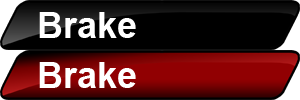
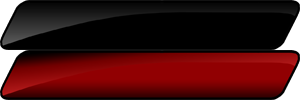
New ETV controls images without text.
git-svn-id: https://svn.ctdp.net/svn/rfdynhud/trunk@385 1c0d6ce8-a1e3-b74c-a49d-f790e2421cd5

Changed region(s): [[0.12, 0.6, 0.48, 0.9], [0.12, 0.12, 0.48, 0.39]]

diff --git a/java/src/net/ctdp/rfdynhud/widgets/widget/WidgetBackground.java b/java/src/net/ctdp/rfdynhud/widgets/widget/WidgetBackground.java
@@ -19,6 +19,8 @@ package net.ctdp.rfdynhud.widgets.widget;
 
 import java.awt.Color;
 
+import org.jagatoo.util.Tools;
+
 import net.ctdp.rfdynhud.editor.__EDPrivilegedAccess;
 import net.ctdp.rfdynhud.gamedata.LiveGameData;
 import net.ctdp.rfdynhud.properties.BackgroundProperty;
@@ -130,6 +132,7 @@ public class WidgetBackground
         
         float deltaScaleX = -1.0f;
         float deltaScaleY = -1.0f;
+        boolean imageChanged = false;
         
         if ( newBGType.isColor() )
         {
@@ -139,6 +142,7 @@ public class WidgetBackground
                 
                 deltaScaleX = (float)width / (float)it.getBaseWidth();
                 deltaScaleY = (float)height / (float)it.getBaseHeight();
+                imageChanged = true;
             }
             
             backgroundTexture = null;
@@ -154,6 +158,7 @@ public class WidgetBackground
                 
                 deltaScaleX = (float)it.getBaseWidth() / (float)width;
                 deltaScaleY = (float)it.getBaseHeight() / (float)height;
+                imageChanged = true;
             }
             else if ( oldBGType.isImage() )
             {
@@ -169,6 +174,7 @@ public class WidgetBackground
                 
                 deltaScaleX = oldBgScaleX / newScaleX;
                 deltaScaleY = oldBgScaleY / newScaleY;
+                imageChanged = !Tools.objectsEqual( oldValue, newValue );
             }
             
             backgroundTexture = null;
@@ -177,7 +183,7 @@ public class WidgetBackground
             mergedBgTexDirty = true;
         }
         
-        widget.onBackgroundChanged( deltaScaleX, deltaScaleY );
+        widget.onBackgroundChanged( imageChanged, deltaScaleX, deltaScaleY );
         widget.forceAndSetDirty( true );
     }
     

diff --git a/java/src/net/ctdp/rfdynhud/widgets/widget/Widget.java b/java/src/net/ctdp/rfdynhud/widgets/widget/Widget.java
@@ -129,10 +129,11 @@ public abstract class Widget implements Cloneable, Documented
     /**
      * This method is invoked when the background has changed.
      * 
+     * @param imageChanged whether the image has changed
      * @param deltaScaleX the x-scale factor in as a difference between the old background image and the new one or -1 of no background image was selected
      * @param deltaScaleY the y-scale factor in as a difference between the old background image and the new one or -1 of no background image was selected
      */
-    protected void onBackgroundChanged( float deltaScaleX, float deltaScaleY ) {}
+    protected void onBackgroundChanged( boolean imageChanged, float deltaScaleX, float deltaScaleY ) {}
     private final BackgroundProperty backgroundProperty = canHaveBackground() || overridesDrawBackground ? new BackgroundProperty( this, "background", getInitialBackground() )
     {
         @Override

diff --git a/java/standard_widget_set/src/net/ctdp/rfdynhud/widgets/revmeter/RevMeterWidget.java b/java/standard_widget_set/src/net/ctdp/rfdynhud/widgets/revmeter/RevMeterWidget.java
@@ -206,12 +206,12 @@ public class RevMeterWidget extends NeedleMeterWidget
     }
     
     @Override
-    protected void onBackgroundChanged( float deltaScaleX, float deltaScaleY )
+    protected void onBackgroundChanged( boolean imageChanged, float deltaScaleX, float deltaScaleY )
     {
-        super.onBackgroundChanged( deltaScaleX, deltaScaleY );
+        super.onBackgroundChanged( imageChanged, deltaScaleX, deltaScaleY );
         
         for ( int i = 0; i < numShiftLights.getIntValue(); i++ )
-            shiftLights[i].onBackgroundChanged( deltaScaleX, deltaScaleY );
+            shiftLights[i].onBackgroundChanged( imageChanged, deltaScaleX, deltaScaleY );
         
         // TODO: Don't set to null!
         gearBackgroundTexture = null;

diff --git a/java/ecclestone_tv_2010/src/net/ctdp/rfdynhud/etv2010/widgets/telemetry/ETVTelemetryWidget.java b/java/ecclestone_tv_2010/src/net/ctdp/rfdynhud/etv2010/widgets/telemetry/ETVTelemetryWidget.java
@@ -212,9 +212,9 @@ public class ETVTelemetryWidget extends RevMeterWidget
     }
     
     @Override
-    protected void onBackgroundChanged( float deltaScaleX, float deltaScaleY )
+    protected void onBackgroundChanged( boolean imageChanged, float deltaScaleX, float deltaScaleY )
     {
-        super.onBackgroundChanged( deltaScaleX, deltaScaleY );
+        super.onBackgroundChanged( imageChanged, deltaScaleX, deltaScaleY );
         
         maxVelocityLeftOffset.setIntValue( Math.round( maxVelocityLeftOffset.getIntValue() * deltaScaleX ) );
         maxVelocityTopOffset.setIntValue( Math.round( maxVelocityTopOffset.getIntValue() * deltaScaleY ) );

diff --git a/java/src/net/ctdp/rfdynhud/widgets/widget/base/needlemeter/NeedleMeterWidget.java b/java/src/net/ctdp/rfdynhud/widgets/widget/base/needlemeter/NeedleMeterWidget.java
@@ -70,9 +70,9 @@ public abstract class NeedleMeterWidget extends Widget
     }
     
     @Override
-    protected void onBackgroundChanged( float deltaScaleX, float deltaScaleY )
+    protected void onBackgroundChanged( boolean imageChanged, float deltaScaleX, float deltaScaleY )
     {
-        super.onBackgroundChanged( deltaScaleX, deltaScaleY );
+        super.onBackgroundChanged( imageChanged, deltaScaleX, deltaScaleY );
         
         if ( deltaScaleX > 0f )
         {

diff --git a/java/standard_widget_set/src/net/ctdp/rfdynhud/widgets/revmeter/ShiftLight.java b/java/standard_widget_set/src/net/ctdp/rfdynhud/widgets/revmeter/ShiftLight.java
@@ -95,7 +95,13 @@ public class ShiftLight
         this.textureOn = null;
     }
     
-    public void onBackgroundChanged( float deltaScaleX, float deltaScaleY )
+    /**
+     * 
+     * @param imageChanged
+     * @param deltaScaleX
+     * @param deltaScaleY
+     */
+    public void onBackgroundChanged( boolean imageChanged, float deltaScaleX, float deltaScaleY )
     {
         resetTextures();
         
